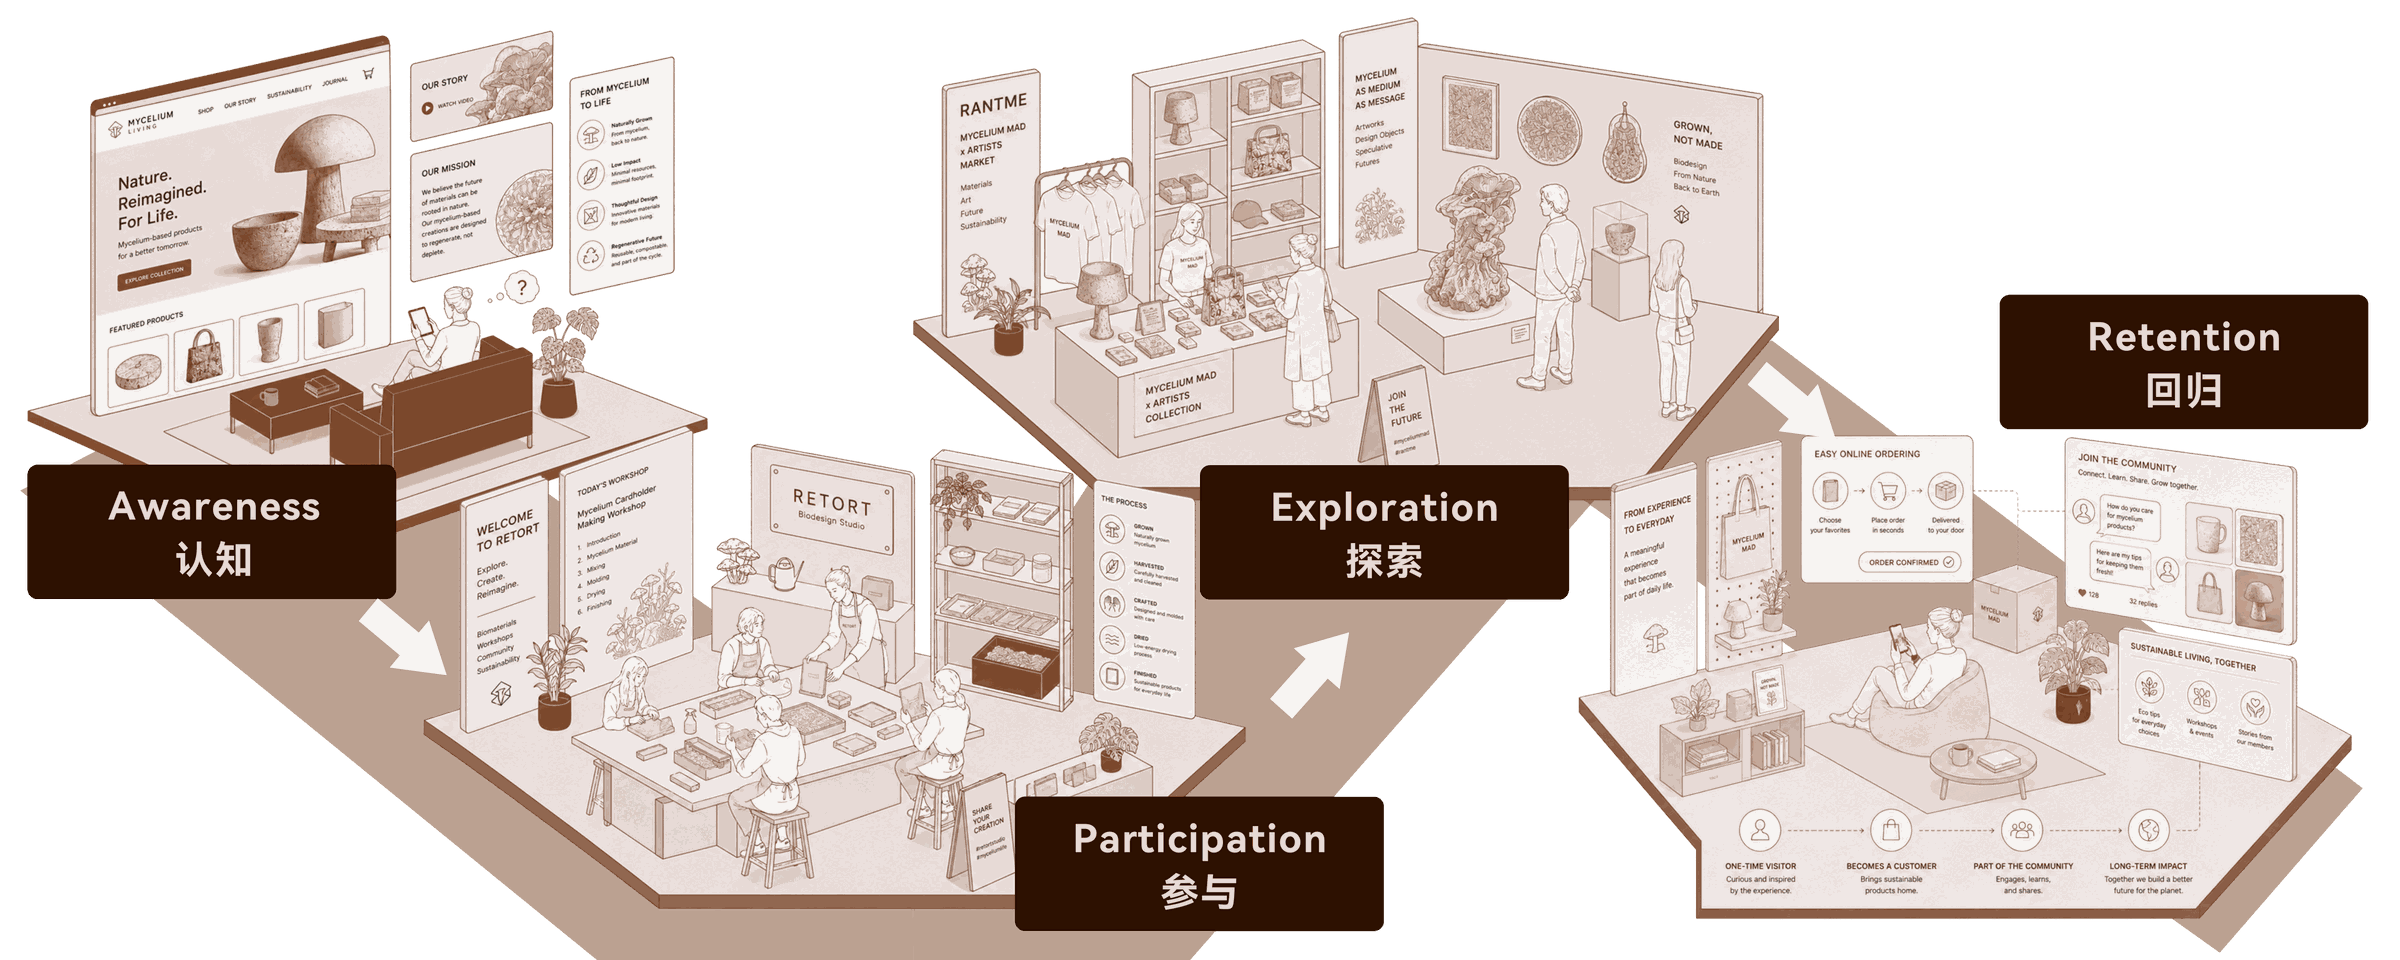
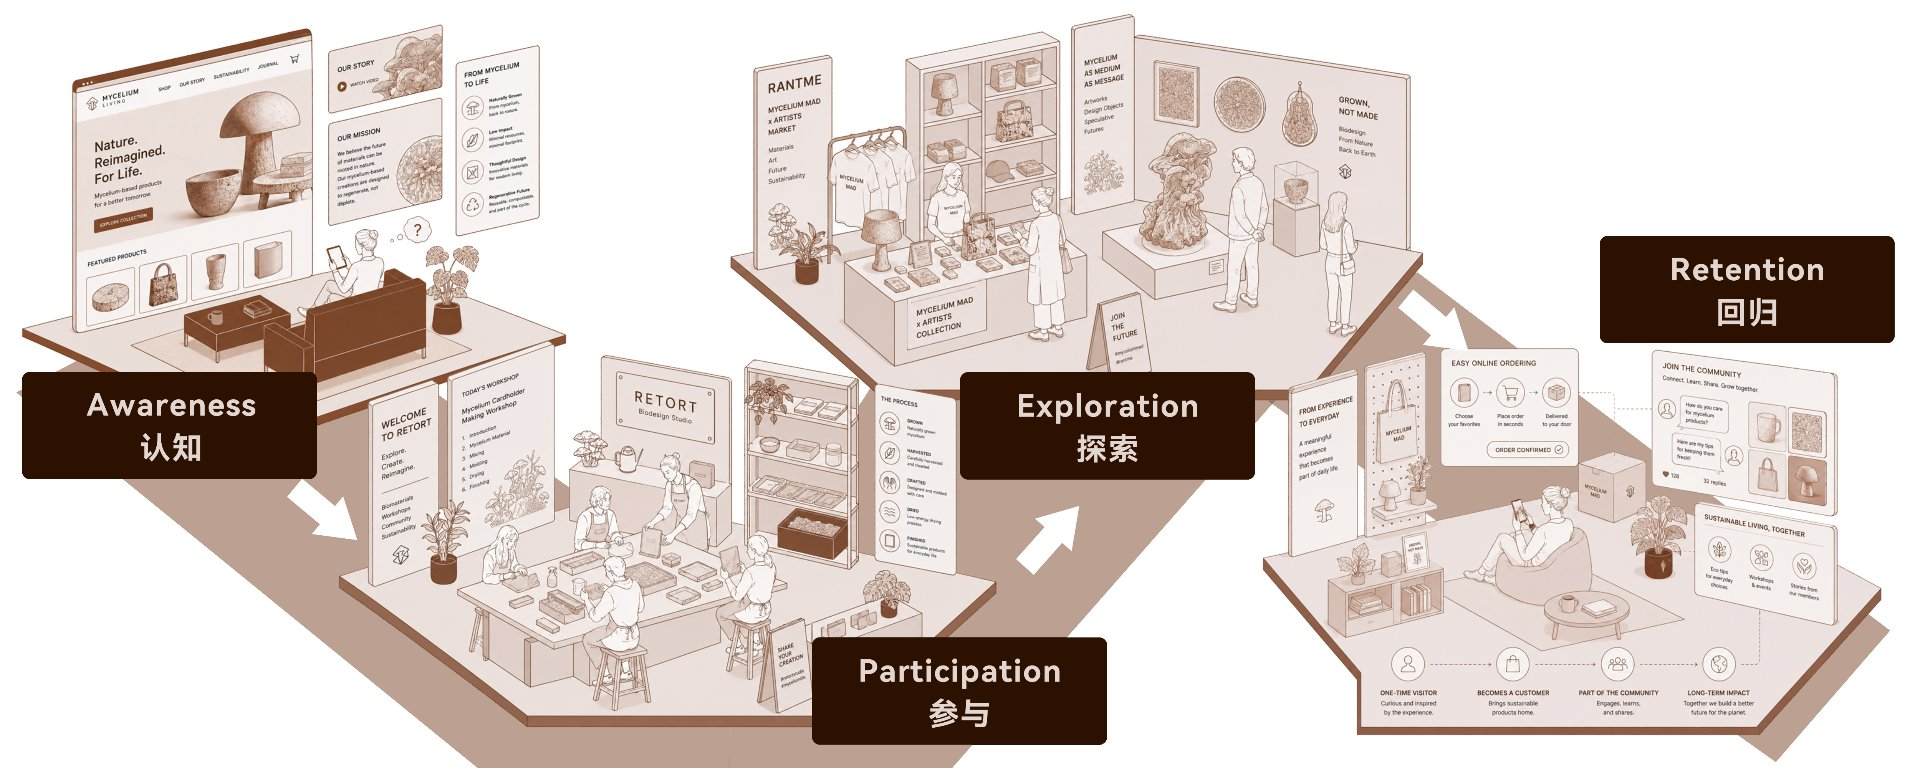
首页：改用 position:fixed 实现 Hero 图片钉屏，彻底消除滚动开头跳动；移动端禁用钉屏。Mycelium 服务蓝图图替换为新图。

diff --git a/index.html b/index.html
@@ -176,7 +176,6 @@
       display: flex;
       justify-content: center;
       align-items: center;
-      will-change: transform;
     }
 
     /* ===== 右侧竖排照片 ===== */
@@ -186,7 +185,13 @@
       align-items: center;
       justify-content: center;
       gap: 30px;
-      will-change: transform;
+    }
+
+    /* ===== 钉屏包装器：默认在文档流中，JS 在桌面端把它 fixed 到原位 ===== */
+    .hero-pin-wrap {
+      position: static;
+      z-index: 1;
+      /* left/top/transform 由 JS 根据 grid cell 初始位置设定 */
     }
 
     .side-photo {
@@ -1044,6 +1049,13 @@
         justify-content: center;
       }
 
+      .hero-pin-wrap {
+        position: static;
+        transform: none !important;
+        left: auto !important;
+        top: auto !important;
+      }
+
       .side-photo {
         width: 110px;
       }
@@ -1729,13 +1741,15 @@
     <div class="hero-grid">
       <!-- 左侧：互动人物 -->
       <div class="hero-photo-col">
-        <div class="hero-photo">
-          <div class="avatar-backdrop"></div>
-          <div class="hero-photo-frame">
-            <div class="avatar-interactive" id="avatarInteractive">
-              <div class="avatar-floor-shadow"></div>
+        <div class="hero-pin-wrap" id="heroPhotoPin">
+          <div class="hero-photo">
+            <div class="avatar-backdrop"></div>
+            <div class="hero-photo-frame">
+              <div class="avatar-interactive" id="avatarInteractive">
+                <div class="avatar-floor-shadow"></div>
 <img src="images/avatar-normal.png" alt="于沅鑫 · 正常表情" class="avatar-normal">
-            <img src="images/avatar-smile.png" alt="于沅鑫 · 微笑" class="avatar-smile">
+              <img src="images/avatar-smile.png" alt="于沅鑫 · 微笑" class="avatar-smile">
+              </div>
             </div>
           </div>
         </div>
@@ -1764,9 +1778,11 @@
       </div>
       <!-- 右侧：竖排照片 -->
       <div class="hero-side-photos">
-        <img src="images/me2.jpg" alt="" class="side-photo">
-        <img src="images/me3.jpg" alt="" class="side-photo">
-        <img src="images/me1.jpg" alt="" class="side-photo">
+        <div class="hero-pin-wrap" id="heroSidePin">
+          <img src="images/me2.jpg" alt="" class="side-photo">
+          <img src="images/me3.jpg" alt="" class="side-photo">
+          <img src="images/me1.jpg" alt="" class="side-photo">
+        </div>
       </div>
     </div>
 
@@ -2268,42 +2284,75 @@
       }
     })();
 
-    // ========== Hero 图片滚动钉屏 + 渐隐（钉在屏幕原位，仅变透明度） ==========
+    // ========== Hero 图片钉屏 + 渐隐（fixed 定位：真正钉在屏幕原位，仅变透明度） ==========
     (function () {
       var about = document.getElementById('about');
-      var photoCol = document.querySelector('.hero-photo-col');
-      var sidePhotos = document.querySelector('.hero-side-photos');
+      var photoPin = document.getElementById('heroPhotoPin');
+      var sidePin = document.getElementById('heroSidePin');
       var fadeTargets = document.querySelectorAll('.avatar-interactive, .hero-side-photos .side-photo');
-      if (!about) return;
-      // about 的绝对位置只需在加载/尺寸变化时计算一次，避免每帧触发布局刷新
+      if (!about || !photoPin || !sidePin) return;
+
       var aboutTop = about.getBoundingClientRect().top + (window.scrollY || window.pageYOffset);
+      var PIN_MIN_WIDTH = 901; // 小于此宽度取消钉屏，避免移动端遮挡内容
+
+      function isPinEnabled() {
+        return window.innerWidth >= PIN_MIN_WIDTH;
+      }
+
+      // 根据 grid cell 的文档坐标把 fixed wrap 定位到「未滚动时」的屏幕位置。
+      // 使用文档坐标（+scrollY），即使页面加载时已滚动也能正确定位。
+      function pinToCell() {
+        if (!isPinEnabled()) {
+          photoPin.style.position = 'static';
+          photoPin.style.left = '';
+          photoPin.style.top = '';
+          photoPin.style.transform = '';
+          sidePin.style.position = 'static';
+          sidePin.style.left = '';
+          sidePin.style.top = '';
+          sidePin.style.transform = '';
+          return;
+        }
+        var photoCol = document.querySelector('.hero-photo-col');
+        var sideCol = document.querySelector('.hero-side-photos');
+        if (!photoCol || !sideCol) return;
+        var scrollY = window.scrollY || window.pageYOffset;
+        var pr = photoCol.getBoundingClientRect();
+        var sr = sideCol.getBoundingClientRect();
+
+        photoPin.style.position = 'fixed';
+        photoPin.style.left = (pr.left + pr.width / 2) + 'px';
+        photoPin.style.top = (pr.top + pr.height / 2 + scrollY) + 'px';
+        photoPin.style.transform = 'translate(-50%, -50%)';
+
+        sidePin.style.position = 'fixed';
+        sidePin.style.left = (sr.left + sr.width / 2) + 'px';
+        sidePin.style.top = (sr.top + sr.height / 2 + scrollY) + 'px';
+        sidePin.style.transform = 'translate(-50%, -50%)';
+      }
 
       function update() {
         var scrollY = window.scrollY || window.pageYOffset;
         var p = aboutTop > 0 ? Math.min(1, Math.max(0, scrollY / aboutTop)) : 1;
         var op = 1 - p;
-        // 钉屏：用 +scrollY 抵消页面上移，使图片停留在初始屏幕位置（仅垂直，左右对称）
-        if (photoCol) photoCol.style.transform = 'translateY(' + scrollY + 'px)';
-        if (sidePhotos) sidePhotos.style.transform = 'translateY(' + scrollY + 'px)';
         // 仅透明度变化
         for (var i = 0; i < fadeTargets.length; i++) {
           fadeTargets[i].style.opacity = op;
         }
         // 渐隐后禁用悬停交互，避免穿透到下层
         var pe = op < 0.15 ? 'none' : '';
-        if (photoCol) photoCol.style.pointerEvents = pe;
-        if (sidePhotos) sidePhotos.style.pointerEvents = pe;
+        photoPin.style.pointerEvents = pe;
+        sidePin.style.pointerEvents = pe;
       }
-      // 同步执行：在 scroll 事件里直接更新，与平滑滚动同帧生效，
-      // 避免「页面先上移、transform 后一帧才补上」造成的 1 帧滞后与开头跳动
-      function onScroll() {
-        update();
-      }
-      window.addEventListener('scroll', onScroll, { passive: true });
+
+      window.addEventListener('scroll', update, { passive: true });
       window.addEventListener('resize', function () {
         aboutTop = about.getBoundingClientRect().top + (window.scrollY || window.pageYOffset);
+        pinToCell();
         update();
       });
+      window.addEventListener('load', pinToCell);
+      pinToCell();
       update();
     })();
 
